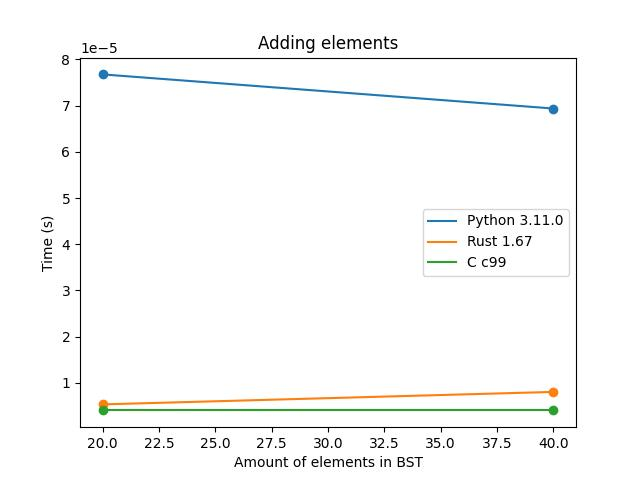
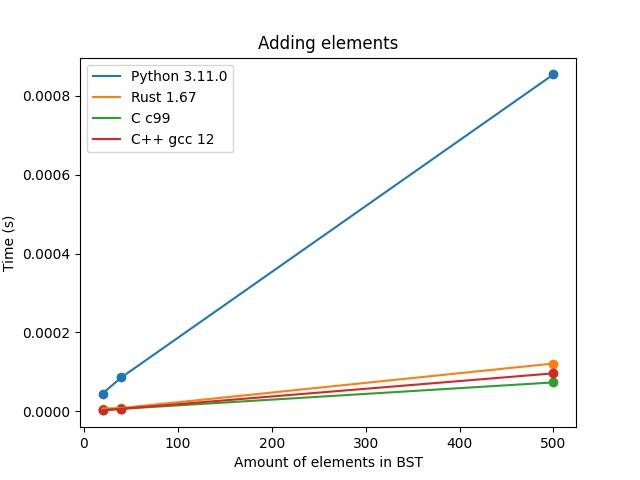
cpp

diff --git a/BST/c++/main.cpp b/BST/c++/main.cpp
@@ -5,7 +5,7 @@
 #include <iomanip>
 #include "tree.cpp"
 
-std::vector<int> get_add_numbers(){
+std::vector<int> get_add_numbers(int amount){
     std::vector<int> numbers;
     std::ifstream input_file("/datasets/add.txt");
     int number;
@@ -13,10 +13,10 @@ std::vector<int> get_add_numbers(){
         numbers.push_back(number);
     }
     input_file.close();
-    return numbers;
+    return std::vector<int>(numbers.begin(), numbers.begin() + amount);
 }
 
-std::vector<int> get_check_numbers(){
+std::vector<int> get_check_numbers(int amount){
     std::vector<int> numbers;
     std::ifstream input_file("/datasets/check.txt");
     int number;
@@ -24,72 +24,55 @@ std::vector<int> get_check_numbers(){
         numbers.push_back(number);
     }
     input_file.close();
-    return numbers;
+    return std::vector<int>(numbers.begin(), numbers.begin() + amount);
 }
 
-double get_avg(int* numbers){
-    int sum = 0;
-    for(int i = 0; i<3;i++){
-        sum += numbers[i];
-    }
-    double avg = (double)sum / 3 / 1000000;
-    return avg;
-}
 
-int main() {
-    int add_results[3];
-    int check_results[3];
-    int len_results[3];
-    int height_results[3];
+int main(int argc, char* argv[]) {
+
+    int amount = std::stoi(argv[1]);
     
-    std::vector<int> add_numbers = get_add_numbers();
-    std::vector<int> check_numbers = get_check_numbers();
+    std::vector<int> add_numbers = get_add_numbers(amount);
+    std::vector<int> check_numbers = get_check_numbers(amount);
 
-    for (int i = 0; i < 3; i++) {
-        Tree* tree = new Tree();
+    
+    Tree* tree = new Tree();
 
-        // Add elements to tree
-        auto start = std::chrono::high_resolution_clock::now();
-        for (int value : add_numbers) {
-            tree->add(value);
-        }
-        auto stop = std::chrono::high_resolution_clock::now();
-        auto duration = std::chrono::duration_cast<std::chrono::microseconds>(stop - start);
-        add_results[i] = static_cast<int>(duration.count());
-
-        // Len elements
-        start = std::chrono::high_resolution_clock::now();
-        int length = tree->length();
-        stop = std::chrono::high_resolution_clock::now();
-        duration = std::chrono::duration_cast<std::chrono::microseconds>(stop - start);
-        len_results[i] = static_cast<int>(duration.count());
-        std::cout << "Lenght=" << length << std::endl;
-
-        // height elements
-        start = std::chrono::high_resolution_clock::now();
-        int height = tree->height();
-        stop = std::chrono::high_resolution_clock::now();
-        duration = std::chrono::duration_cast<std::chrono::microseconds>(stop - start);
-        height_results[i] = static_cast<int>(duration.count());
-        std::cout << "Height=" << height << std::endl;
-
-        // Check elements
-        start = std::chrono::high_resolution_clock::now();
-        for (int value : check_numbers) {
-            tree->contain(value);
-        }
-        stop = std::chrono::high_resolution_clock::now();
-        duration = std::chrono::duration_cast<std::chrono::microseconds>(stop - start);
-        check_results[i] = static_cast<int>(duration.count());
-        delete tree;
+    // Add elements to tree
+    auto start_add = std::chrono::high_resolution_clock::now();
+    for (int value : add_numbers) {
+        tree->add(value);
     }
+    auto stop_add = std::chrono::high_resolution_clock::now();
+    auto duration_add = 1.0 * std::chrono::duration_cast<std::chrono::microseconds>(stop_add - start_add).count();
+    std::cout << "ADD_TEST:" << duration_add/1000000.0 << std::endl;
 
+    // Check elements
+    auto start_check = std::chrono::high_resolution_clock::now();
+    for (int value : add_numbers) {
+        tree->contain(value);
+    }
+    auto stop_check = std::chrono::high_resolution_clock::now();
+    auto duration_check = 1.0 * std::chrono::duration_cast<std::chrono::microseconds>(stop_check - start_check).count();
+    std::cout << "CHECK_TEST:" << duration_check/1000000.0 << std::endl;
 
+    // Len elements
+    auto start_len = std::chrono::high_resolution_clock::now();
+    for (int i=0;i<10;i++) int length = tree->length();
+    auto stop_len = std::chrono::high_resolution_clock::now();
+    auto duration_len = 1.0 * std::chrono::duration_cast<std::chrono::microseconds>(stop_len - start_len).count();
+    std::cout << "LEN_TEST:" << duration_len/1000000.0/10.0 << std::endl;
 
-    std::cout << "Average add: " << std::fixed << std::setprecision(2) << get_avg(add_results) << std::endl;
-    std::cout << "Average check: " << std::fixed << std::setprecision(2) << get_avg(check_results) << std::endl;
-    std::cout << "Average len: " << std::fixed << std::setprecision(2) << get_avg(len_results) << std::endl;
-    std::cout << "Average height: " << std::fixed << std::setprecision(2) << get_avg(height_results) << std::endl;
-   
+    // height elements
+    auto start_h = std::chrono::high_resolution_clock::now();
+    for (int i=0;i<10;i++) int length = tree->height();
+    auto stop_h = std::chrono::high_resolution_clock::now();
+    auto duration_h = 1.0 * std::chrono::duration_cast<std::chrono::microseconds>(stop_h - start_h).count();
+    std::cout << "HEIGHT_TEST:" << duration_h/1000000.0/10.0 << std::endl;
+
+    std::cout << "VALIDATION:"<<tree->length()<<":"<<tree->height()<< std::endl;
+
+    delete tree;
+  
     return 0;
 }

diff --git a/app/result.py b/app/result.py
@@ -2,7 +2,7 @@ from dataclasses import dataclass
 from typing import Callable, List, Dict
 from collections import defaultdict
 import matplotlib.pyplot as plt
-
+from logger import logger
 
 class ResultValidation(Exception):
     pass
@@ -26,7 +26,7 @@ class Result:
     def FROM_RESULT(name:str, amount:int, result: str) -> "Result":
         add = None
         check = None
-        len = None
+        leng = None
         height = None
         val = None
         for line in result.splitlines():
@@ -35,17 +35,19 @@ class Result:
             if "CHECK_TEST" in line:
                 check = float(line.split(":")[1])
             if "LEN_TEST" in line:
-                len = float(line.split(":")[1])
+                leng = float(line.split(":")[1])
             if "HEIGHT_TEST" in line:
                 height = float(line.split(":")[1])
             if "VALIDATION" in line:
                 val = (int(line.split(":")[1]), int(line.split(":")[2]))
+        if any([key is None for key in [add, check, leng, height, val]]):
+            logger.warning(F"Cannot find all keys in {name}:{amount}. Full output:\n{result}")
         return Result(name=name,
                       amount=amount,
                       add=add, #type: ignore
                       check=check, #type: ignore
                       height=height, #type: ignore
-                      len=len, #type: ignore
+                      len=leng, #type: ignore
                       validation=val, #type: ignore
                     )
     @staticmethod

diff --git a/bst_runner.py b/bst_runner.py
@@ -8,12 +8,14 @@ class BSTCollection:
     PYTHON = BST("Python 3.11.0", Path("BST/python3/run.sh"))
     RUST = BST("Rust 1.67", Path("BST/rust/run.sh"))
     C = BST("C c99", Path("BST/c/run.sh"))
+    CPP = BST("C++ gcc 12", Path("BST/c++/run.sh"))
+
 
 
 
     @classmethod
     def get_all(cls):
-        return [cls.PYTHON, cls.RUST, cls.C]
+        return [cls.PYTHON, cls.RUST, cls.C, cls.CPP]
 
 
 def run(bst: BST, amount:int) -> Result:
@@ -27,7 +29,7 @@ def run(bst: BST, amount:int) -> Result:
 def main():
     arg_coll = []
     for bst in BSTCollection.get_all():
-        for amount in [20, 40]:
+        for amount in [20, 40, 500]:
             for _ in range(1):
                 arg_coll.append((bst, amount))
 
